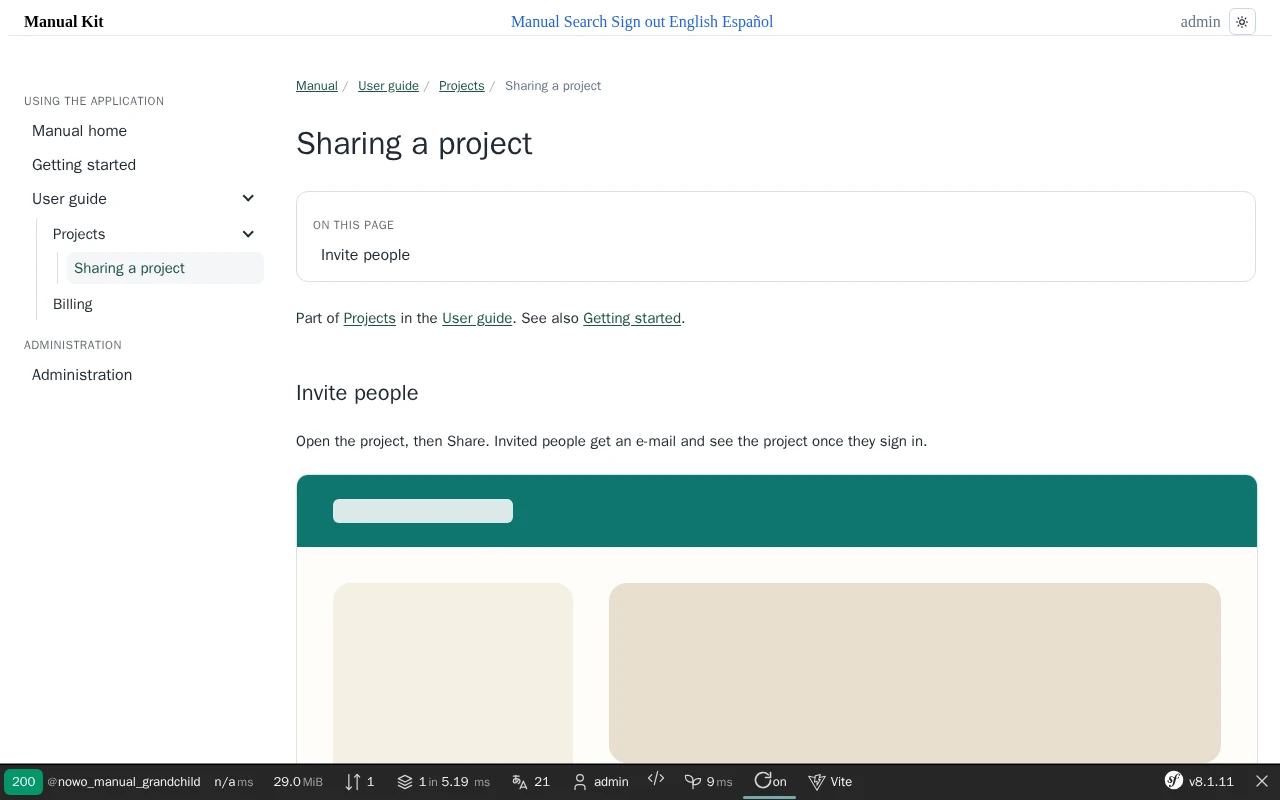
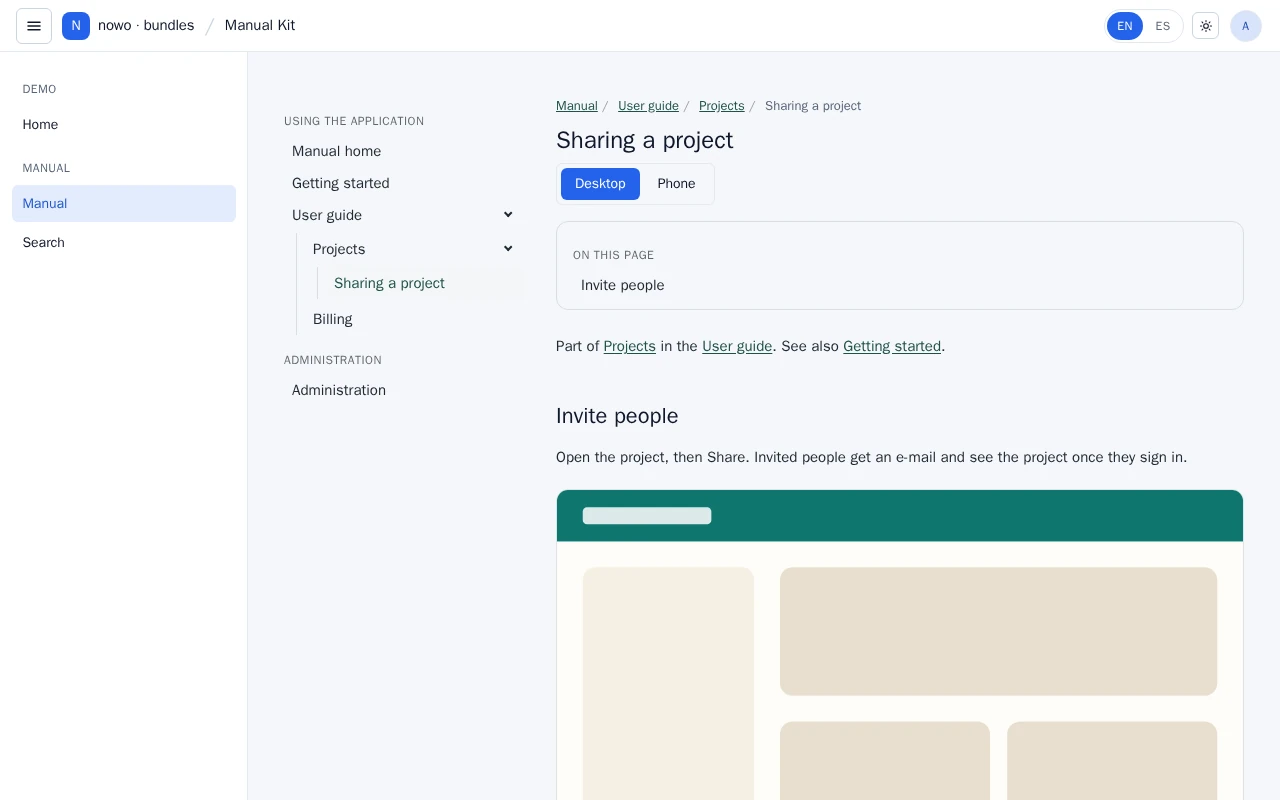
chore(demo): run the demo in UiKit's demo platform shell (#49)
The demo extends @NowoUiKit/demo_platform/layout.html.twig (top bar with the
sign-in button and user menu, locale pills, aside nav in sections, content width,
footer shared by every bundle demo) and declares itself in nowo_ui_demo_platform;
it is also the manual's layout (nowo_manual_kit.layout). The demo's own masthead
is gone, the pages use the page header and section cards, a failed sign-in is the
shell's error flash, a demo-platform spec checks the layout rules, the drawer and
axe, and the README screenshots no longer show the Symfony toolbar. Requires
nowo-tech/ui-kit-bundle ^2.60.

diff --git a/demo/symfony8/e2e/tests/demo-platform.spec.ts b/demo/symfony8/e2e/tests/demo-platform.spec.ts
@@ -1,0 +1,189 @@
+import { test, expect, type Page } from '@playwright/test';
+import AxeBuilder from '@axe-core/playwright';
+
+/**
+ * REQ-DEMO-014 — the demo runs in UiKit's demo platform shell: layout grammar, no demo styles / host tokens / framework
+ * classes, closed drawer inert, 44 px targets on coarse pointers, input borders 3:1 (same rules as UiKit's own spec),
+ * the phone drawer by keyboard, and axe (wcag2a / 2aa / 21a / 21aa; serious + critical = 0) in light and dark.
+ * Pages that need data are listed with the path the demo fixtures provide.
+ */
+const pages: Array<{ name: string; path: string; auth?: boolean }> = [
+  { name: "home", path: "/en" },
+  { name: "login", path: "/en/login" },
+  { name: "manual", path: "/en/manual", auth: true },
+  { name: "chapter", path: "/en/manual/01-getting-started", auth: true },
+  { name: "admin-chapter", path: "/en/manual/02-admin", auth: true },
+  { name: "search", path: "/en/manual-search?q=project", auth: true },
+];
+
+/**
+ * Findings of pages rendered by a bundle's own templates (bundle-owned: reported in the PR, fixed in the bundle, never
+ * patched in the demo). Everything else must be clean. Each entry: the page name and the issue it may report.
+ */
+const bundleOwned: Array<[string, RegExp]> = [
+  ["*", /target-under-44px:nowo-manual__device/],
+  ["*", /color-contrast: .*nowo-manual__(group|nav).*/],
+];
+
+/** Drops the documented bundle-owned findings of a page (and records them as test annotations). */
+function unowned(issues: string[], pageName: string): string[] {
+  return issues.filter((issue) => {
+    const owned = bundleOwned.some(([name, re]) => (name === pageName || name === '*') && re.test(issue));
+    if (owned) test.info().annotations.push({ type: 'bundle-owned', description: `${pageName}: ${issue}` });
+    return !owned;
+  });
+}
+
+/** Signs in for the pages that need a user (empty when the demo has no sign-in). */
+async function signIn(page: Page): Promise<void> {
+  await page.goto('/en/login');
+  await page.getByLabel('Username').fill('admin');
+  await page.getByLabel('Password').fill('admin');
+  await page.locator('main').getByRole('button', { name: 'Sign in' }).click();
+  await page.waitForLoadState('load');
+}
+
+async function open(page: Page, p: { path: string; auth?: boolean }): Promise<void> {
+  if (p.auth) await signIn(page);
+  await page.goto(p.path);
+  await page.waitForLoadState('load');
+}
+
+// Demo platform layout + style rules, evaluated in the page (same code as the ROLLOUT-BRIEF spec template and UiKit's
+// demo/symfony8/e2e/tests/demo-platform.spec.ts). Returns a list of issue codes; [] = clean.
+function demoPlatformRules(): string[] {
+  const issues: string[] = [];
+  const main = document.querySelector('#nowo-ui-content');
+  const shell = document.querySelector('[data-testid="demo-platform"]');
+  if (!main || !shell) return ['no-demo-platform-shell'];
+  const visible = (el) => !!(el.offsetWidth || el.offsetHeight || el.getClientRects().length);
+  const carded = (el) => el.closest('.nowo-ui-card, [data-nowo-ui-region="table"], [data-nowo-ui-region="form"], .nowo-ui-form-panel, dialog');
+  const skip = (el) => el.closest('dialog, [data-nowo-ui-region="filters"], .nowo-ui-filters, .nowo-ui-page-header');
+
+  // Layout grammar.
+  main.querySelectorAll('table').forEach((t) => { if (!carded(t)) issues.push('table-outside-card'); });
+  main.querySelectorAll('form').forEach((f) => {
+    if (f.querySelector('input:not([type="hidden"]), select, textarea') && !carded(f) && !skip(f) && !f.closest('table')) issues.push('form-outside-card');
+  });
+  const primaries = [...main.querySelectorAll('.nowo-ui-btn--primary')].filter((b) => visible(b) && !b.closest('table, dialog, [data-nowo-ui-region="filters"], .nowo-ui-filters, form'));
+  if (primaries.length > 1) issues.push(`primary-buttons:${primaries.length}`);
+  const header = main.querySelector('.nowo-ui-page-header');
+  const flashes = main.querySelector('.nowo-ui-flashes');
+  if (header && flashes && (flashes.compareDocumentPosition(header) & Node.DOCUMENT_POSITION_FOLLOWING)) issues.push('flashes-before-page-header');
+  if (document.documentElement.scrollWidth > document.documentElement.clientWidth + 1) issues.push('page-scrolls-horizontally');
+
+  // Styles: no demo styles, no host theme tokens, no CDN / foreign stylesheet, no framework classes inside the shell.
+  document.querySelectorAll('style').forEach((s) => {
+    if (s.matches('[data-nowo-ui-theme-tokens], [data-nowo-ui-appearance]')) { issues.push('host-theme-tokens'); return; }
+    if (!/sf-toolbar|sfwdt|sf-minitoolbar|sf-display/.test(s.textContent || '') && !s.closest('[id^="sfwdt"], .sf-toolbar')) issues.push('style-element');
+  });
+  document.querySelectorAll('link[rel="stylesheet"]').forEach((l) => {
+    const path = new URL(l.href, location.href).pathname;
+    if (!path.startsWith('/bundles/') && !path.startsWith('/_wdt/') && !path.startsWith('/_profiler/')) issues.push(`stylesheet:${path}`);
+  });
+  const framework = /^(acme-.*|nav-tabs|nav-link|nav-item|alert|alert-.*|form-check.*|form-control|form-select|form-label|btn|btn-.*|card|card-.*|badge|row|col|col-.*|table|table-.*)$/;
+  shell.querySelectorAll('[class]').forEach((el) => {
+    for (const c of el.classList) { if (framework.test(c)) { issues.push(`framework-class:${c}`); break; } }
+  });
+
+  // Drawer: below 901 px a closed drawer is inert and the burger says so.
+  const aside = shell.querySelector('[data-nowo-ui-aside]');
+  if (aside && window.innerWidth < 901) {
+    const open = shell.classList.contains('is-aside-open-mobile');
+    if (!open && !aside.hasAttribute('inert')) issues.push('drawer-not-inert');
+    shell.querySelectorAll('[data-nowo-ui-burger]').forEach((b) => {
+      if (visible(b) && b.getAttribute('aria-expanded') !== (open ? 'true' : 'false')) issues.push('burger-state');
+    });
+  }
+
+  // Touch: 44 px targets on coarse pointers (checkbox / radio 24 px, their label carries the 44 px row).
+  if (window.matchMedia('(pointer: coarse)').matches) {
+    const controls = [...shell.querySelectorAll('.nowo-ui-btn, button, summary, input:not([type="hidden"]), select, textarea, [role="tab"], .nowo-ui-aside__link, .nowo-ui-demo-platform__locale')]
+      .filter((el) => visible(el) && !el.closest('[inert], table'));
+    for (const el of controls) {
+      const r = el.getBoundingClientRect();
+      const small = el.matches('input[type="checkbox"], input[type="radio"]') ? r.height < 24 || r.width < 24 : r.height < 43.5;
+      if (small) { issues.push(`target-under-44px:${(el.className && String(el.className).split(' ')[0]) || el.tagName.toLowerCase()}`); }
+    }
+  }
+
+  // Inputs: boundary 3:1 or more against the surface behind them (WCAG 1.4.11).
+  const rgb = (c) => { const m = c.match(/[\d.]+/g); return m ? m.slice(0, 4).map(Number) : null; };
+  const lum = (c) => { const v = c.slice(0, 3).map((x) => { const s = x / 255; return s <= 0.03928 ? s / 12.92 : ((s + 0.055) / 1.055) ** 2.4; }); return 0.2126 * v[0] + 0.7152 * v[1] + 0.0722 * v[2]; };
+  const bgOf = (el) => { for (let n = el.parentElement; n; n = n.parentElement) { const c = rgb(getComputedStyle(n).backgroundColor); if (c && (c.length < 4 || c[3] > 0)) return c; } return [255, 255, 255]; };
+  shell.querySelectorAll('input:not([type="hidden"], [type="checkbox"], [type="radio"]), select, textarea').forEach((el) => {
+    if (!visible(el) || el.closest('[inert]')) return;
+    const border = rgb(getComputedStyle(el).borderTopColor);
+    if (!border) return;
+    const a = lum(border); const b = lum(bgOf(el));
+    if ((Math.max(a, b) + 0.05) / (Math.min(a, b) + 0.05) < 3) issues.push(`input-border-under-3:1:${el.id || el.name || el.tagName.toLowerCase()}`);
+  });
+
+  return [...new Set(issues)];
+}
+
+type Theme = 'light' | 'dark';
+
+async function setTheme(page: Page, theme: Theme): Promise<void> {
+  await page.evaluate((t) => {
+    document.documentElement.setAttribute('data-theme', t);
+    document.documentElement.setAttribute('data-bs-theme', t);
+  }, theme);
+}
+
+async function axe(page: Page): Promise<string[]> {
+  const result = await new AxeBuilder({ page }).withTags(['wcag2a', 'wcag2aa', 'wcag21a', 'wcag21aa']).exclude('.sf-toolbar').exclude('[id^="sfwdt"]').analyze();
+  return result.violations.filter((v) => v.impact === 'serious' || v.impact === 'critical').map((v) => `${v.id}: ${v.nodes.map((n) => n.target.join(' ')).slice(0, 3).join(' | ')}`);
+}
+
+test.describe('Demo platform rules', () => {
+  test.describe('desktop 1440 px', () => {
+    test.use({ viewport: { width: 1440, height: 900 } });
+    for (const p of pages) {
+      test(`rules: ${p.name}`, async ({ page }) => {
+        await open(page, p);
+        expect(unowned(await page.evaluate(demoPlatformRules), p.name)).toEqual([]);
+      });
+      for (const theme of ['light', 'dark'] as Theme[]) {
+        test(`axe: ${p.name}, ${theme}`, async ({ page }) => {
+          await open(page, p);
+          await setTheme(page, theme);
+          expect(unowned(await axe(page), p.name)).toEqual([]);
+        });
+      }
+    }
+  });
+
+  test.describe('phone 390 px (touch)', () => {
+    test.use({ viewport: { width: 390, height: 844 }, isMobile: true, hasTouch: true });
+    for (const p of pages) {
+      test(`rules: ${p.name}`, async ({ page }) => {
+        await open(page, p);
+        expect(unowned(await page.evaluate(demoPlatformRules), p.name)).toEqual([]);
+      });
+      for (const theme of ['light', 'dark'] as Theme[]) {
+        test(`axe: ${p.name}, ${theme}`, async ({ page }) => {
+          await open(page, p);
+          await setTheme(page, theme);
+          expect(unowned(await axe(page), p.name)).toEqual([]);
+        });
+      }
+    }
+
+    test('drawer by keyboard: Enter opens and moves focus in, Escape closes and returns to the burger', async ({ page }) => {
+      await open(page, pages[0]);
+      const burger = page.locator('[data-nowo-ui-burger]:visible').first();
+      await expect(burger).toHaveAttribute('aria-expanded', 'false');
+      await burger.focus();
+      await page.keyboard.press('Enter');
+      await expect(burger).toHaveAttribute('aria-expanded', 'true');
+      await expect.poll(() => page.evaluate(() => !!document.activeElement?.closest('[data-nowo-ui-aside]'))).toBe(true);
+      await expect(page.locator('.nowo-ui-main')).toHaveAttribute('inert', '');
+      await expect(page.locator('html')).toHaveClass(/nowo-ui-drawer-open/);
+      await page.keyboard.press('Escape');
+      await expect(burger).toBeFocused();
+      await expect(page.locator('[data-nowo-ui-aside]')).toHaveAttribute('inert', '');
+      await expect(page.locator('html')).not.toHaveClass(/nowo-ui-drawer-open/);
+    });
+  });
+});

diff --git a/demo/symfony8/e2e/tests/screenshots.spec.ts b/demo/symfony8/e2e/tests/screenshots.spec.ts
@@ -14,6 +14,16 @@ test.beforeAll(() => {
 test.use({ viewport: { width: 1280, height: 800 } });
 
 test.beforeEach(async ({ page }) => {
+  // The Symfony debug toolbar is not part of the demo platform: hide it on every page of the capture.
+  await page.addInitScript(() => {
+    const hide = () => {
+      const style = document.createElement('style');
+      style.textContent = '.sf-toolbar,.sf-minitoolbar,[id^="sfwdt"]{display:none!important}';
+      document.head.appendChild(style);
+    };
+    if (document.readyState === 'loading') document.addEventListener('DOMContentLoaded', hide);
+    else hide();
+  });
   await page.goto('/en/login');
   await page.getByLabel('Username').fill('admin');
   await page.getByLabel('Password').fill('admin');

diff --git a/docs/CHANGELOG.md b/docs/CHANGELOG.md
@@ -54,6 +54,10 @@ The format is based on [Keep a Changelog](https://keepachangelog.com/en/1.1.0/),
 
 ## [Unreleased]
 
+### Changed
+
+- Demo: runs in UiKit's demo platform shell (`@NowoUiKit/demo_platform/layout.html.twig`, UiKit ^2.60): the demo declares itself in `templates/base.html.twig` (sign-in and user menu, locale pills and the manual in the aside from the shell), the pages use the page header and section cards, the demo's own masthead is gone, a demo-platform e2e spec checks the layout rules, the drawer and axe, and the README screenshots no longer show the Symfony toolbar.
+
 ## [1.12.1] - 2026-11-17
 
 ### Fixed
